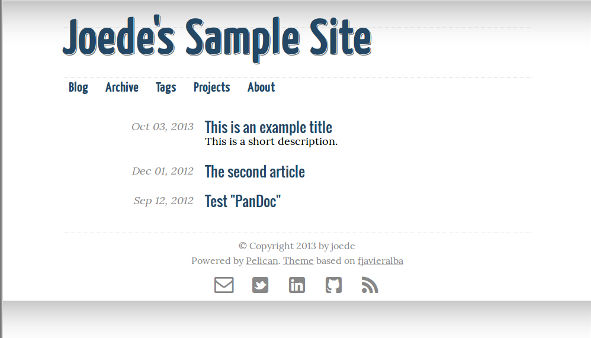
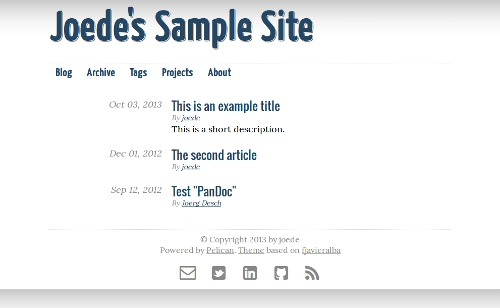
show the name of the author if SIGNLE_AUTHOR is True

diff --git a/templates/index.html b/templates/index.html
@@ -7,9 +7,13 @@
 {% if articles %}
   {% for article in (articles_page.object_list if articles_page else articles) %}
     <div class=entry-overview>
-      <div class=date>{{ article.date.strftime('%b %d, %Y') }}</div>
+      <div class=date>{{ article.date.strftime('%b %d, %Y') }}
+      </div>
       <div class=detail>
           <h1><a href="{{ SITEURL }}/{{ article.url }}">{{ article.title }}</a></h1>
+          {% if article.author and not SINGLE_AUTHOR %}
+	    <span class="byline">By <a href="{{ SITEURL }}/{{ article.author.url }}">{{ article.author }}</a></span><br>
+          {% endif %}
           <div class=summary><p> {{ article.excerpt }}</p></div>
       </div>
     </div>

diff --git a/static/css/style.css b/static/css/style.css
@@ -117,6 +117,7 @@ div.entry-overview div.summary,
 div.entry-overview div.date,
 div.entry-overview div.summary p    { margin: 0; padding: 0; }
 div.entry-overview div.detail       { margin-left: 140px; }
+div.entry-overview div.detail .byline { font-style: italic; font-size: 14px;  color: #888; }
 div.entry-overview div.date         { float: left; width: 120px; color: #888;
                                       text-align: right; font-style: italic; }
 /*div.entry-overview h1:after         { content: " —"; }*/

diff --git a/README.md b/README.md
@@ -11,6 +11,7 @@ DONE:
 * scaleable: the width is now scalable.
 * blockqoutes are formatted now.
 * a site tile is shown with it's one style.
+* show name of the author if `SINGLE_AUTHOR` is set to `True`
 
 TODO:
 
@@ -22,6 +23,7 @@ In order to correctly use this theme you will need this variables in your
 
 ~~~~~ {.python}
     AUTHOR = u'Your Name'
+    SINGLE_AUTHOR = False
     SITENAME = u"Your site name"
     SITEURL = 'blog'
     TIMEZONE = "Europe/Madrid"
